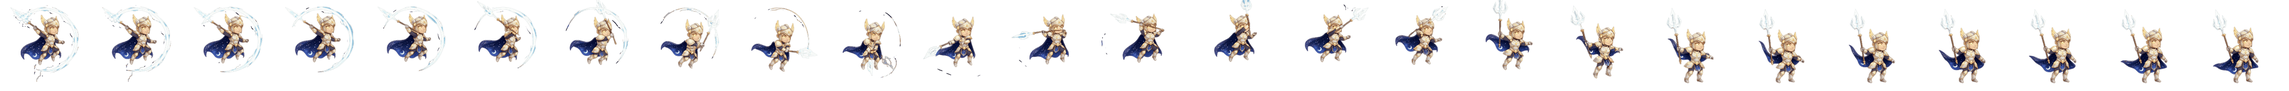
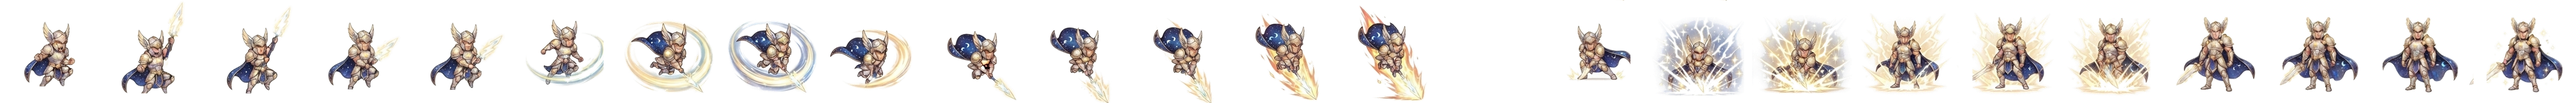
Update Spartan/Demi-God attack art, refresh Demi-God base sprite, slow attack animations 25%, add map full-view lightbox
- char-spartan-action-strip.png / char-demigod-action-strip.png
  regenerated from newer source sheets (E:\Icons\Spartan-courage_thrust
  -transparent.png, "Demi-God atk-transparent.png") -- the previous
  strips were built from older art.
- char-demigod.png (base idle portrait) refreshed from the newer
  Demi-God-transparent.png source, already cleanly cut.
- Attack animation slowed ~25% (1s -> 1.33s) in both the in-app
  popover (style.css + app.js's matching setTimeout) and the field
  guide's sprite gallery, so the JS reset timer doesn't cut the
  animation off early.
- adventure-guide.html: map cards in "The Realms" now open a full-view
  lightbox on click/tap; tapping anywhere (image or backdrop) closes
  it, no separate close button.

v1.7.70

Changed region(s): [[0.0, 0.0938, 1.0, 0.9688], [0.2812, 0.0938, 0.3125, 0.125], [0.25, 0.125, 0.2812, 0.1562]]

diff --git a/adventure-guide.html b/adventure-guide.html
@@ -158,7 +158,7 @@
     background-repeat: no-repeat; background-position: 0% 0%; background-size: 2500% 100%;
     opacity: 0; pointer-events: none;
   }
-  .sprite-stage .action.is-playing { opacity: 1; animation: spriteFrames 1s steps(24) 1; }
+  .sprite-stage .action.is-playing { opacity: 1; animation: spriteFrames 1.33s steps(24) 1; }
   @keyframes spriteFrames { from { background-position-x: 0%; } to { background-position-x: 100%; } }
   .sprite-play {
     position: absolute; top: 2px; right: 2px; width: 30px; height: 30px; border-radius: 50%;
@@ -172,11 +172,30 @@
 
   .map-grid { display: grid; grid-template-columns: repeat(2, 1fr); gap: 20px; }
   @media (max-width: 640px) { .map-grid { grid-template-columns: 1fr; } }
-  .map-card { background: var(--card); border: 1px solid var(--hairline); border-radius: 14px; overflow: hidden; box-shadow: 0 18px 36px -26px var(--shadow); }
+  .map-card { background: var(--card); border: 1px solid var(--hairline); border-radius: 14px; overflow: hidden; box-shadow: 0 18px 36px -26px var(--shadow); cursor: pointer; }
   .map-card img { width: 100%; display: block; aspect-ratio: 4/3; object-fit: cover; }
   .map-card-body { padding: 14px 16px 16px; }
   .map-card .rank { font-family: 'JetBrains Mono', monospace; font-size: 10.5px; letter-spacing: 0.1em; text-transform: uppercase; color: var(--gold); font-weight: 700; }
   .map-card h3 { font-family: 'Syne', sans-serif; font-size: 1.15rem; margin: 6px 0 0; font-weight: 700; }
+
+  /* Full-view lightbox: tap a map card to open, tap anywhere (image or
+     backdrop) to close -- one shared overlay reused for all four maps. */
+  .map-lightbox {
+    position: fixed; inset: 0; z-index: 1000;
+    background: rgba(10, 8, 5, 0.86);
+    display: flex; flex-direction: column; align-items: center; justify-content: center;
+    padding: 32px; cursor: zoom-out;
+  }
+  .map-lightbox[hidden] { display: none; }
+  .map-lightbox img { max-width: min(92vw, 900px); max-height: 78vh; display: block; border-radius: 10px; box-shadow: 0 30px 60px -20px rgba(0,0,0,0.7); }
+  .map-lightbox-caption { margin-top: 16px; text-align: center; color: var(--parchment-50); }
+  .map-lightbox-caption .rank { font-family: 'JetBrains Mono', monospace; font-size: 11px; letter-spacing: 0.12em; text-transform: uppercase; color: var(--gold-bright); font-weight: 700; }
+  .map-lightbox-caption h3 { font-family: 'Syne', sans-serif; font-size: 1.3rem; margin: 6px 0 0; font-weight: 700; }
+  .map-lightbox-hint { margin-top: 14px; font-family: 'JetBrains Mono', monospace; font-size: 11px; color: var(--parchment-100); opacity: 0.7; }
+  @media (prefers-reduced-motion: no-preference) {
+    .map-lightbox img { animation: mapLightboxIn 0.25s ease both; }
+  }
+  @keyframes mapLightboxIn { from { opacity: 0; transform: scale(0.97); } to { opacity: 1; transform: scale(1); } }
 
   footer { margin-top: 96px; padding-top: 28px; border-top: 1px solid var(--hairline); text-align: center; color: var(--ink-faint); font-size: 0.85rem; }
   footer .v { font-family: 'JetBrains Mono', monospace; color: var(--gold); }
@@ -441,25 +460,34 @@
       <h2>Four maps, one per rank</h2>
       <p>Each realm hides its own trail, side quests, and guardian at the end of it.</p>
     </div>
-    <div class="map-grid">
-      <div class="map-card">
+    <div class="map-grid" id="mapGrid">
+      <div class="map-card" data-rank="Novice" data-title="Serpent's Hive" data-src="icons/maps/map-novice-serpents-hive.webp">
         <img src="icons/maps/map-novice-serpents-hive.webp" alt="Serpent's Hive map">
         <div class="map-card-body"><div class="rank">Novice</div><h3>Serpent's Hive</h3></div>
       </div>
-      <div class="map-card">
+      <div class="map-card" data-rank="Warrior" data-title="Frozen Ascent" data-src="icons/maps/map-warrior-frozen-ascent.webp">
         <img src="icons/maps/map-warrior-frozen-ascent.webp" alt="Frozen Ascent map">
         <div class="map-card-body"><div class="rank">Warrior</div><h3>Frozen Ascent</h3></div>
       </div>
-      <div class="map-card">
+      <div class="map-card" data-rank="Spartan" data-title="Burning Plains" data-src="icons/maps/map-spartan-burning-plains.webp">
         <img src="icons/maps/map-spartan-burning-plains.webp" alt="Burning Plains map">
         <div class="map-card-body"><div class="rank">Spartan</div><h3>Burning Plains</h3></div>
       </div>
-      <div class="map-card">
+      <div class="map-card" data-rank="Demi-God" data-title="Celestial Realm" data-src="icons/maps/map-demigod-celestial.webp">
         <img src="icons/maps/map-demigod-celestial.webp" alt="Celestial Realm map">
         <div class="map-card-body"><div class="rank">Demi-God</div><h3>Celestial Realm</h3></div>
       </div>
     </div>
   </section>
+
+  <div class="map-lightbox" id="mapLightbox" hidden>
+    <img id="mapLightboxImg" src="" alt="">
+    <div class="map-lightbox-caption">
+      <div class="rank" id="mapLightboxRank"></div>
+      <h3 id="mapLightboxTitle"></h3>
+    </div>
+    <p class="map-lightbox-hint">Tap anywhere to close</p>
+  </div>
 
   <footer>
     A field guide for <a href="https://winfinityfitness.github.io/fitness-tracker/" target="_blank" rel="noopener">Winfinity Fitness Tracker</a>
@@ -479,8 +507,30 @@
     setTimeout(function () {
       action.classList.remove('is-playing');
       base.classList.remove('is-hidden');
-    }, 1000);
+    }, 1330);
   });
+
+  (function () {
+    var lightbox = document.getElementById('mapLightbox');
+    var lbImg = document.getElementById('mapLightboxImg');
+    var lbRank = document.getElementById('mapLightboxRank');
+    var lbTitle = document.getElementById('mapLightboxTitle');
+
+    document.getElementById('mapGrid').addEventListener('click', function (e) {
+      var card = e.target.closest('.map-card');
+      if (!card) return;
+      lbImg.src = card.dataset.src;
+      lbImg.alt = card.dataset.title + ' map, full view';
+      lbRank.textContent = card.dataset.rank;
+      lbTitle.textContent = card.dataset.title;
+      lightbox.hidden = false;
+    });
+    // Any tap inside the lightbox closes it too (image or backdrop) --
+    // there's no separate close button, the whole overlay is the target.
+    lightbox.addEventListener('click', function () {
+      lightbox.hidden = true;
+    });
+  })();
 </script>
 </body>
 </html>

diff --git a/index.html b/index.html
@@ -54,7 +54,7 @@ if (localStorage.getItem('wds_operator_id') && localStorage.getItem('wds_operato
      end up paired with a stale cached script. A version-tagged URL is
      guaranteed to be a cache MISS on every real deploy, regardless of
      whatever caching behavior sits in front of the origin. -->
-<link rel="stylesheet" href="style.css?v=1.7.69">
+<link rel="stylesheet" href="style.css?v=1.7.70">
 <link rel="stylesheet" href="https://unpkg.com/leaflet@1.9.4/dist/leaflet.css">
 </head>
 <body>
@@ -4830,11 +4830,11 @@ if (localStorage.getItem('wds_operator_id') && localStorage.getItem('wds_operato
   <p class="wdm-toast" id="wdmToast" hidden></p>
 </div>
 
-<script src="config.js?v=1.7.69"></script>
+<script src="config.js?v=1.7.70"></script>
 <script src="https://accounts.google.com/gsi/client" async defer></script>
 <script src="https://unpkg.com/leaflet@1.9.4/dist/leaflet.js"></script>
 <script src="https://cdn.jsdelivr.net/npm/@supabase/supabase-js@2"></script>
 <script src="https://cdn.jsdelivr.net/npm/jszip@3.10.1/dist/jszip.min.js"></script>
-<script src="app.js?v=1.7.69"></script>
+<script src="app.js?v=1.7.70"></script>
 </body>
 </html>

diff --git a/app.js b/app.js
@@ -2,7 +2,7 @@
 
 // Bump this alongside sw.js's CACHE_NAME on every edit — shown on the Status
 // tab as a real build marker instead of decorative placeholder text.
-const APP_VERSION = 'WF_SYS_V.1.7.69';
+const APP_VERSION = 'WF_SYS_V.1.7.70';
 
 /* ---------------------------------------------------------------- */
 /* Storage                                                           */
@@ -21947,7 +21947,7 @@ function initGamificationPanel() {
       action.classList.remove('is-playing');
       void action.offsetWidth; // restart the CSS animation on repeat taps
       action.classList.add('is-playing');
-      setTimeout(() => { action.classList.remove('is-playing'); base.classList.remove('is-paused'); }, 1050);
+      setTimeout(() => { action.classList.remove('is-playing'); base.classList.remove('is-paused'); }, 1380);
     });
   }
 

diff --git a/style.css b/style.css
@@ -1781,7 +1781,7 @@ tr.is-complete .ex-set-prev { color: var(--text-secondary); }
 }
 .game-char-sprite--action.is-playing {
   opacity: 1;
-  animation: gameCharFrames 1s steps(24) 1;
+  animation: gameCharFrames 1.33s steps(24) 1;
 }
 @keyframes gameCharIdle {
   0%, 100% { transform: translateY(0); }

diff --git a/sw.js b/sw.js
@@ -1,4 +1,4 @@
-const CACHE_NAME = 'fittracker-v471';
+const CACHE_NAME = 'fittracker-v472';
 const CORE_ASSETS = [
   './',
   './index.html',
